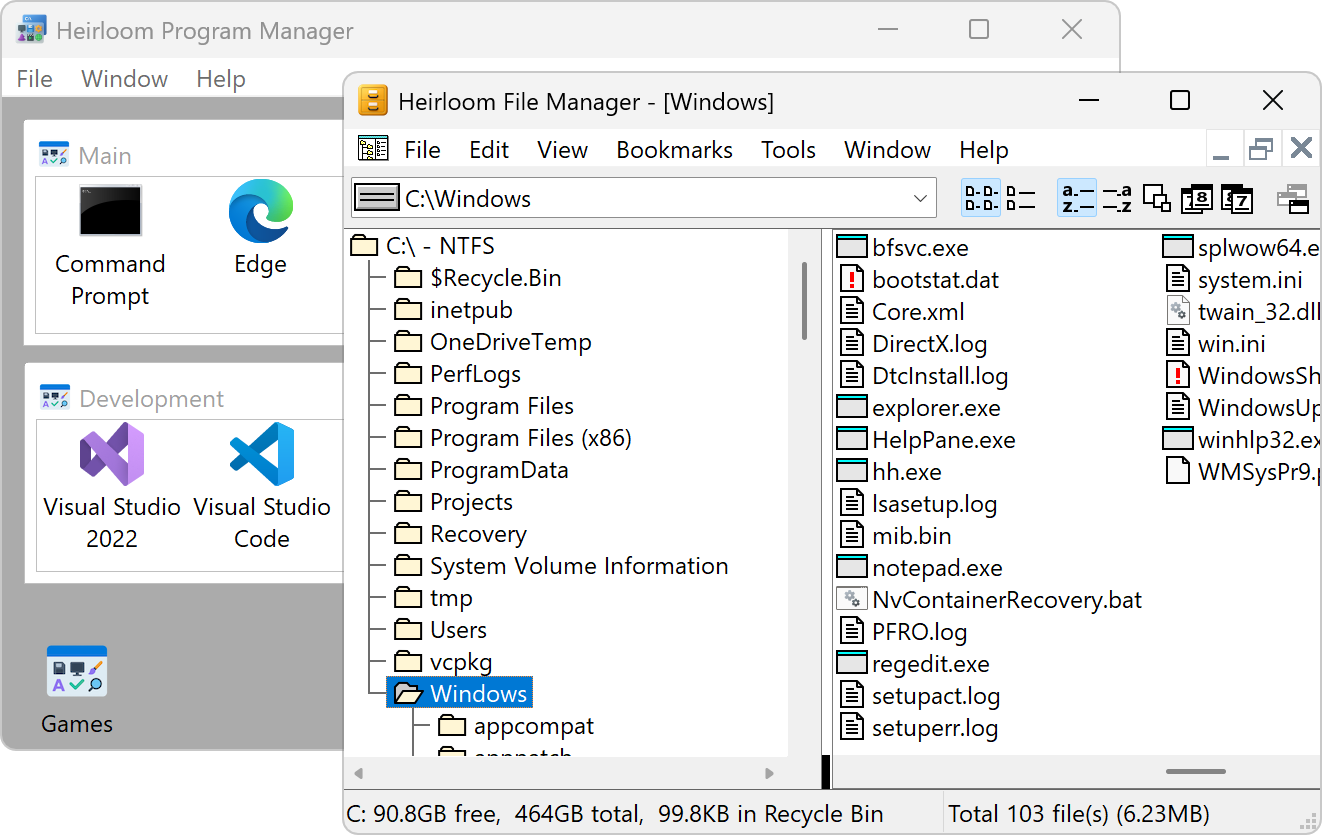
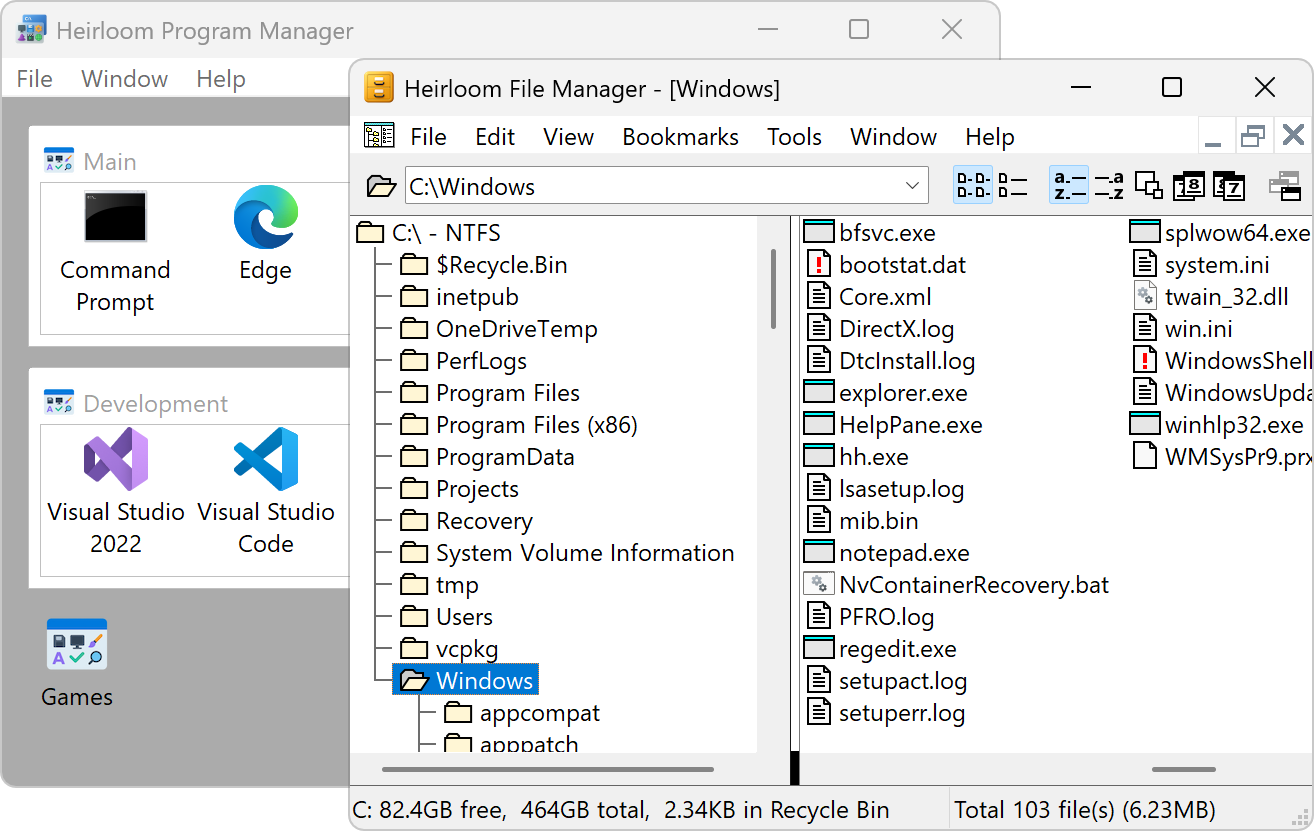
Update screenshot

diff --git a/.github/README.md b/.github/README.md
@@ -2,7 +2,7 @@
 
 <h3 align="center">Lightly modernized classics for Windows</h3>
 
-<p align="center"><img src="screenshot.png" width=661></p>
+<p align="center"><img src="screenshot.png" width=657></p>
 
 ### <img src="progman.png" width=24 align="top"> Heirloom Program Manager
 An alternative to the Start menu for launching applications. This is a reimplementation of [Program Manager](https://en.wikipedia.org/wiki/Program_Manager).
